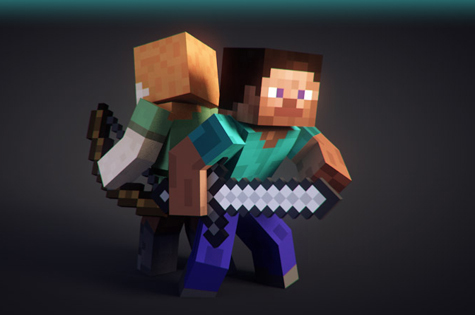
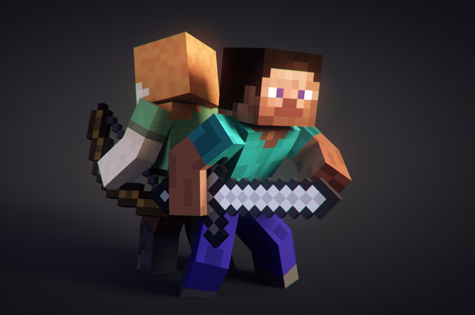
Use inner effect to top shadow rather than use image.

Changed region(s): [[0.0, 0.0, 1.0, 0.0571]]

diff --git a/GUI/LoginWindow.xaml b/GUI/LoginWindow.xaml
@@ -15,28 +15,38 @@
             </ResourceDictionary.MergedDictionaries>
         </ResourceDictionary>
     </Window.Resources>
-    <DockPanel  Width="475" Height="315">
-        <DockPanel DockPanel.Dock="Top" Height="30"  MouseLeftButtonDown="UIElement_OnMouseLeftButtonDown" Background="Transparent">
+    <DockPanel  Width="472" Height="314">
+        <Border DockPanel.Dock="Top" CornerRadius="8,8,0,0">
+            <Border.Background>
+                <LinearGradientBrush EndPoint="0.5,1" StartPoint="0.5,0">
+                    <GradientStop Color="#4C4EE8E8" Offset="0"/>
+                    <GradientStop Offset="1"/>
+                </LinearGradientBrush>
+            </Border.Background>
+            <DockPanel Height="30"  MouseLeftButtonDown="UIElement_OnMouseLeftButtonDown" Background="Transparent">
 
-            <TextBlock DockPanel.Dock="Left" Margin="8,8,0,0"  ><Run Text="Terminology Lanucher "/><Run Text="登录"/></TextBlock>
-            <StackPanel Background="Transparent" DockPanel.Dock="Right" HorizontalAlignment="Right"  MouseLeftButtonDown="UIElement_OnMouseLeftButtonDown">
-                <Button  Style="{DynamicResource CustomCloseButtonStyle}" Margin="0,8,15,0"></Button>
-            </StackPanel>
+                <TextBlock DockPanel.Dock="Left" Margin="8,8,0,0"  ><Run Text="Terminology Lanucher "/><Run Text="登录"/></TextBlock>
+                <StackPanel Background="Transparent" DockPanel.Dock="Right" HorizontalAlignment="Right"  MouseLeftButtonDown="UIElement_OnMouseLeftButtonDown">
+                    <Button  Style="{DynamicResource CustomCloseButtonStyle}" Margin="0,8,15,0"></Button>
+                </StackPanel>
 
-        </DockPanel>
-        <Canvas DockPanel.Dock="Bottom"  >
+            </DockPanel>
+
+        </Border>
+         <Canvas DockPanel.Dock="Bottom"  >
             <TextBlock TextWrapping="Wrap" Text="Majong账户:" Canvas.Left="54" Canvas.Top="78" FontSize="15"/>
             <TextBlock TextWrapping="Wrap" Text="密码:" Canvas.Left="109" Canvas.Top="125" FontSize="15"/>
             <TextBox  x:Name="UsernameBox"  Height="25" Canvas.Left="158" TextWrapping="Wrap" Canvas.Top="75" Width="282" FontSize="15" Style="{DynamicResource TransparentTextBox}"/>
             <PasswordBox x:Name="PasswordBox" Canvas.Left="158" Canvas.Top="122" Width="282" Height="25" FontSize="15" Style="{DynamicResource TransparentPasswordBox}"/>
-            <CheckBox Content="记住密码" Canvas.Left="363" Canvas.Top="175" FontSize="15"/>
-            <Button x:Name="LoginButton" x:FieldModifier="public" Content="登录" Canvas.Left="177" Canvas.Top="232" Width="119" Height="28" Click="LoginButton_OnClick"/>
-            <Button x:Name="CancleButton" x:FieldModifier="public" Content="取消" Canvas.Left="321" Canvas.Top="232" Width="119" Height="28"/>
-            <TextBlock TextWrapping="Wrap" Text="登录模式:" Canvas.Left="79" Canvas.Top="172" FontSize="15"/>
             <ComboBox Canvas.Left="158" Canvas.Top="172" Width="156">
                 <ComboBoxItem Content="正版登录" HorizontalAlignment="Left" Width="118"/>
                 <ComboBoxItem Content="离线模式" HorizontalAlignment="Left" Width="118"/>
             </ComboBox>
+            <CheckBox Content="记住密码" Canvas.Left="363" Canvas.Top="175" FontSize="15"/>
+            <Button x:Name="LoginButton" x:FieldModifier="public" Content="登录" Canvas.Left="177" Canvas.Top="232" Width="119" Height="28" Click="LoginButton_OnClick"/>
+            <Button x:Name="CancleButton" x:FieldModifier="public" Content="取消" Canvas.Left="321" Canvas.Top="232" Width="119" Height="28"/>
+            <TextBlock TextWrapping="Wrap" Text="登录模式:" Canvas.Left="79" Canvas.Top="172" FontSize="15"/>
+         
 
         </Canvas>
     </DockPanel>
